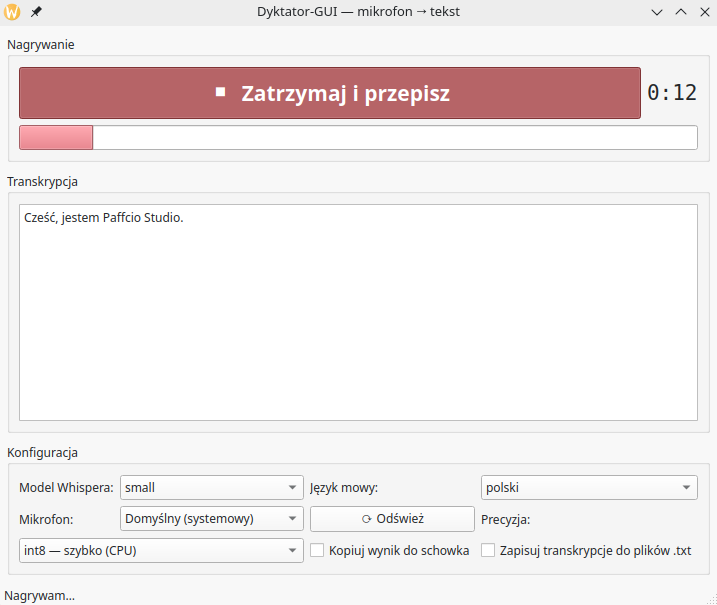
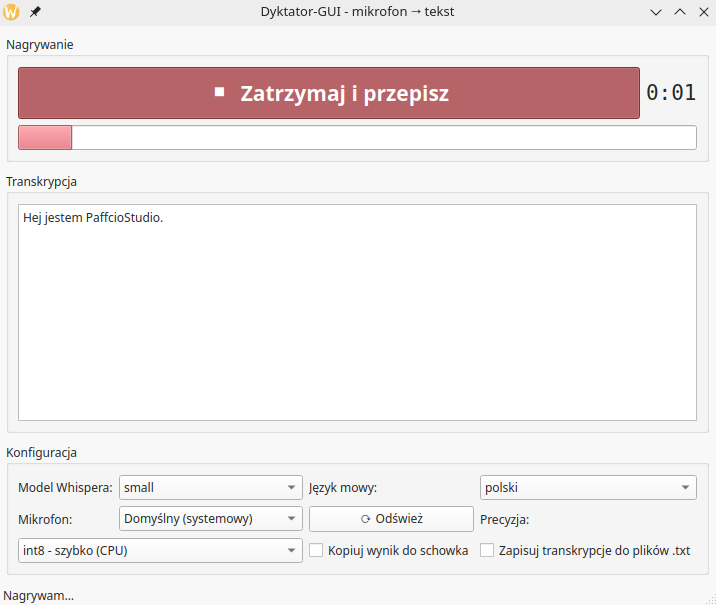
Naprawiono crash programu przy zatrzymaniu nagrywania.
Wątek roboczy był niszczony, zanim zakończył run() - referencje do
QThread są teraz zwalniane dopiero przez kolejny start nagrywania.

diff --git a/main.py b/main.py
@@ -1,6 +1,6 @@
 #!/usr/bin/env python3
 # -*- coding: utf-8 -*-
-"""Dyktator-GUI — nagrywanie mowy z mikrofonu i lokalna transkrypcja (faster-whisper).
+"""Dyktator-GUI - nagrywanie mowy z mikrofonu i lokalna transkrypcja (faster-whisper).
 
 Przycisk Start/Stop nagrywa przez PipeWire (pw-record), a po zatrzymaniu
 nagranie jest przepisywane lokalnie modelem Whisper. Nic nie wychodzi
@@ -54,8 +54,8 @@ JEZYKI = {
     "francuski": "fr",
 }
 PRECYZJE = {
-    "int8 — szybko (CPU)": "int8",
-    "float32 — dokładniej, wolniej": "float32",
+    "int8 - szybko (CPU)": "int8",
+    "float32 - dokładniej, wolniej": "float32",
 }
 
 DOMYSLNA_KONFIG = {
@@ -203,7 +203,7 @@ class Transkrybent(QThread):
             from faster_whisper import WhisperModel
         except ImportError:
             self.blad.emit(
-                "Brak biblioteki faster-whisper — zainstaluj: ./venv.sh"
+                "Brak biblioteki faster-whisper - zainstaluj: ./venv.sh"
             )
             return
 
@@ -222,7 +222,7 @@ class Transkrybent(QThread):
         model = _MODELE_CACHE[klucz]
 
         # Whisper przyjmuje float32 @ 16 kHz mono. Konwertujemy ffmpegem
-        # i czytamy modułem wave — transkrypcja z wątku roboczego omija
+        # i czytamy modułem wave - transkrypcja z wątku roboczego omija
         # w ten sposób wadliwy resampler PyAV.
         audio = None
         wav16 = self.plik.with_suffix(".16k.wav")
@@ -239,7 +239,7 @@ class Transkrybent(QThread):
                     .astype(np.float32) / 32768.0
                 )
         except (OSError, subprocess.SubprocessError, wave.Error):
-            pass  # brak ffmpeg — transkrybujemy plik bezpośrednio
+            pass  # brak ffmpeg - transkrybujemy plik bezpośrednio
         finally:
             wav16.unlink(missing_ok=True)
 
@@ -261,7 +261,7 @@ class Transkrybent(QThread):
 class OknoGlowne(QMainWindow):
     def __init__(self):
         super().__init__()
-        self.setWindowTitle("Dyktator-GUI — mikrofon → tekst")
+        self.setWindowTitle("Dyktator-GUI - mikrofon → tekst")
         self.resize(720, 580)
 
         self.konfig = wczytaj_konfig()
@@ -323,7 +323,7 @@ class OknoGlowne(QMainWindow):
         self.combo_model.addItems(MODELE)
         self.combo_model.setToolTip(
             "Większy model = lepsza dokładność, ale wolniej.\n"
-            "medium/large przy pierwszym użyciu pobierają 1,5–3 GB."
+            "medium/large przy pierwszym użyciu pobierają 1,5-3 GB."
         )
         self.combo_model.currentTextChanged.connect(self._zapisz_ustawienia)
         siatka.addWidget(self.combo_model, 0, 1)
@@ -438,11 +438,14 @@ class OknoGlowne(QMainWindow):
         self.etykieta_czas.setText(f"{sekundy // 60}:{sekundy % 60:02d}")
 
     def _nagranie_gotowe(self, plik):
-        self.nagrywarka = None
+        # celowo NIE zwalniamy self.nagrywarka: sygnał przyszedł zanim wątek
+        # wrócił z run(), a zniszczenie QThread w trakcie działania wywala
+        # program ("QThread: Destroyed while thread is still running").
+        # Referencję zastąpi nowa Nagrywarka przy kolejnym nagrywaniu.
         self.pasek_glosnosci.setValue(0)
         self.przycisk_nagrywaj.setText("🎙  Zacznij nagrywać")
         self.przycisk_nagrywaj.setStyleSheet("font-size: 16pt; font-weight: bold;")
-        self.statusBar().showMessage(f"Nagrano: {plik.name} — przygotowuję transkrypcję…")
+        self.statusBar().showMessage(f"Nagrano: {plik.name} - przygotowuję transkrypcję…")
         self.transkrybent = Transkrybent(
             plik,
             self.combo_model.currentText(),
@@ -455,10 +458,10 @@ class OknoGlowne(QMainWindow):
         self.transkrybent.start()
 
     def _transkrypcja_gotowa(self, tekst, plik):
-        self.transkrybent = None
+        # j.w.: referencję do wątku transkrypcji zwalnia dopiero kolejny start
         self.przycisk_nagrywaj.setEnabled(True)
         if not tekst:
-            self.statusBar().showMessage("Nic nie usłyszałem — sprawdź mikrofon i głośność.")
+            self.statusBar().showMessage("Nic nie usłyszałem - sprawdź mikrofon i głośność.")
             return
         self.pole_tekstu.setPlainText(tekst)
         if self.checkbox_kopiuj.isChecked():
@@ -467,12 +470,11 @@ class OknoGlowne(QMainWindow):
             ZAPISY_DIR.mkdir(exist_ok=True)
             cel = ZAPISY_DIR / (plik.stem + ".txt")
             cel.write_text(tekst + "\n", encoding="utf-8")
-            self.statusBar().showMessage(f"Gotowe — zapisano też do {cel}")
+            self.statusBar().showMessage(f"Gotowe - zapisano też do {cel}")
         else:
             self.statusBar().showMessage("Gotowe.")
 
     def _blad(self, komunikat):
-        self.transkrybent = None
         self.przycisk_nagrywaj.setEnabled(True)
         self.przycisk_nagrywaj.setChecked(False)
         self.przycisk_nagrywaj.setText("🎙  Zacznij nagrywać")

diff --git a/README.md b/README.md
@@ -7,18 +7,18 @@ Jeden przycisk: klik → nagrywa, drugi klik → kończy i przepisuje tekst w ok
 
 ## Do czego się przydaje
 
-- **Nauka wymowy i akcentu** — ustaw język na np. angielski, powiedz zdanie
+- **Nauka wymowy i akcentu** - ustaw język na np. angielski, powiedz zdanie
   po angielsku i sprawdź, co „usłyszał" Whisper. Przepisał dokładnie to, co
   zamierzałeś? Wymowa siadła. Zniekształcił jakieś słowo? Masz od razu
-  feedback, co wymaga poprawy. Działa tak z każdym językiem z listy —
+  feedback, co wymaga poprawy. Działa tak z każdym językiem z listy -
   możesz treningowo przerabiać różne akcenty.
-- **Budowa głosowego asystenta AI** — Dyktator-GUI to gotowy pierwszy etap
+- **Budowa głosowego asystenta AI** - Dyktator-GUI to gotowy pierwszy etap
   takiego systemu: mowa → tekst. Dalej droga jest już krótka: tekst
   (np. ze schowka, przy włączonej opcji kopiowania) trafia do modelu
   językowego, model zwraca odpowiedź, a syntezator mowy (TTS) czyta ją
-  na głos. Pełny obieg: **mowa → tekst → AI → tekst → mowa** — pole do
+  na głos. Pełny obieg: **mowa → tekst → AI → tekst → mowa** - pole do
   popisu jest ogromne.
-- **Zwykłe dyktowanie** — notatki, wiadomości, pierwszy szkic tekstu bez
+- **Zwykłe dyktowanie** - notatki, wiadomości, pierwszy szkic tekstu bez
   klepania na klawiaturze; wynik od razu w oknie (można poprawić) i
   opcjonalnie w schowku.
 
@@ -29,7 +29,7 @@ Jeden przycisk: klik → nagrywa, drugi klik → kończy i przepisuje tekst w ok
 ./run.sh    # uruchamia aplikację
 ```
 
-`venv.sh` jest idempotentny — można go odpalać wielokrotnie; pomija to, co
+`venv.sh` jest idempotentny - można go odpalać wielokrotnie; pomija to, co
 już zrobione. Model Whispera pobiera taki, jaki jest ustawiony w
 `config.json` (domyślnie `small`) do cache `~/.cache/huggingface`.
 
